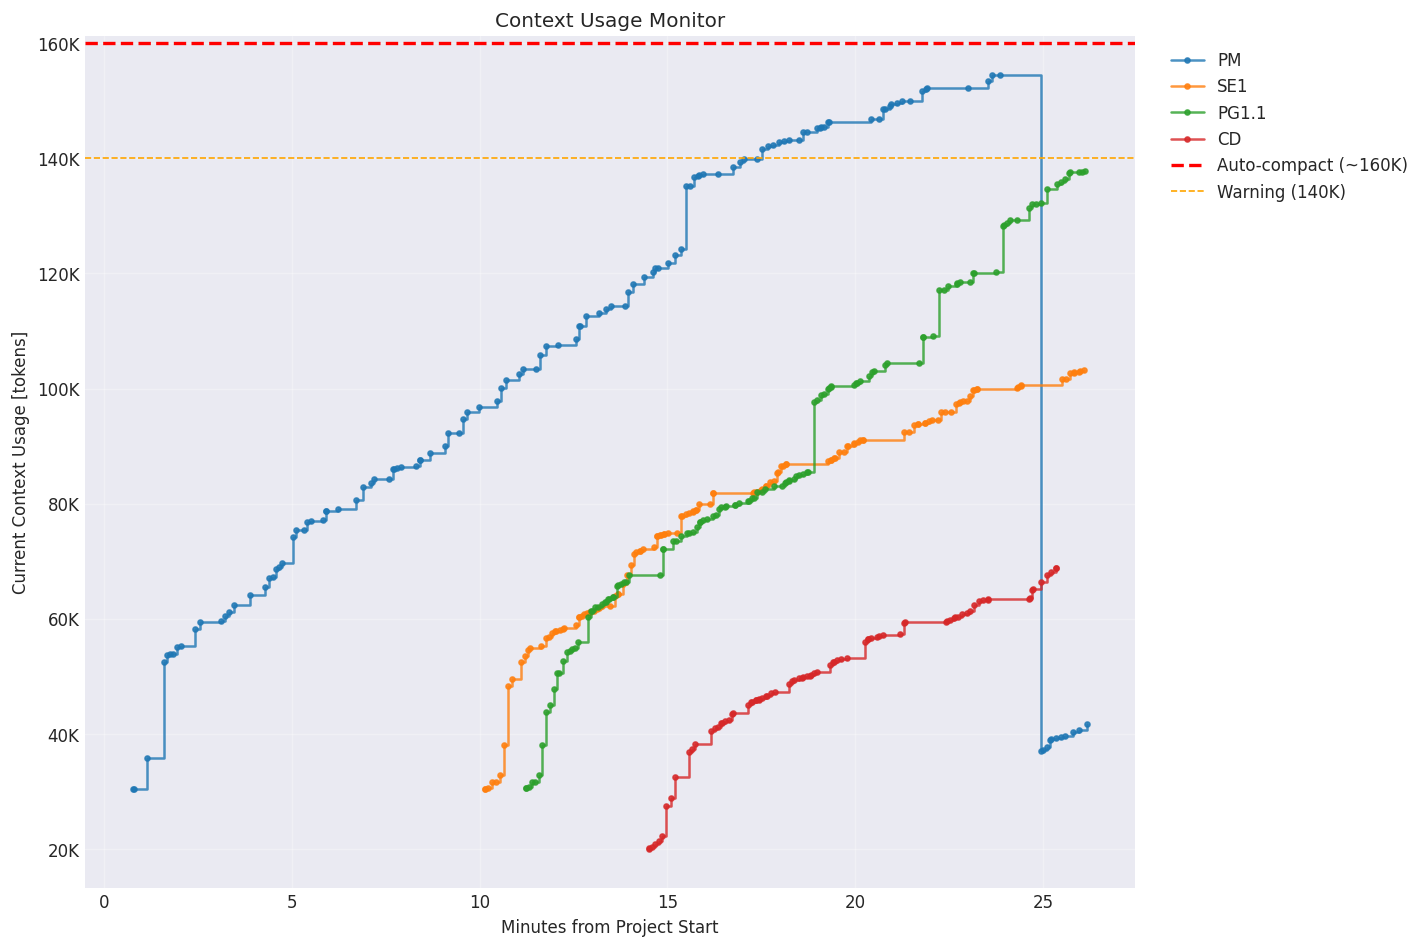
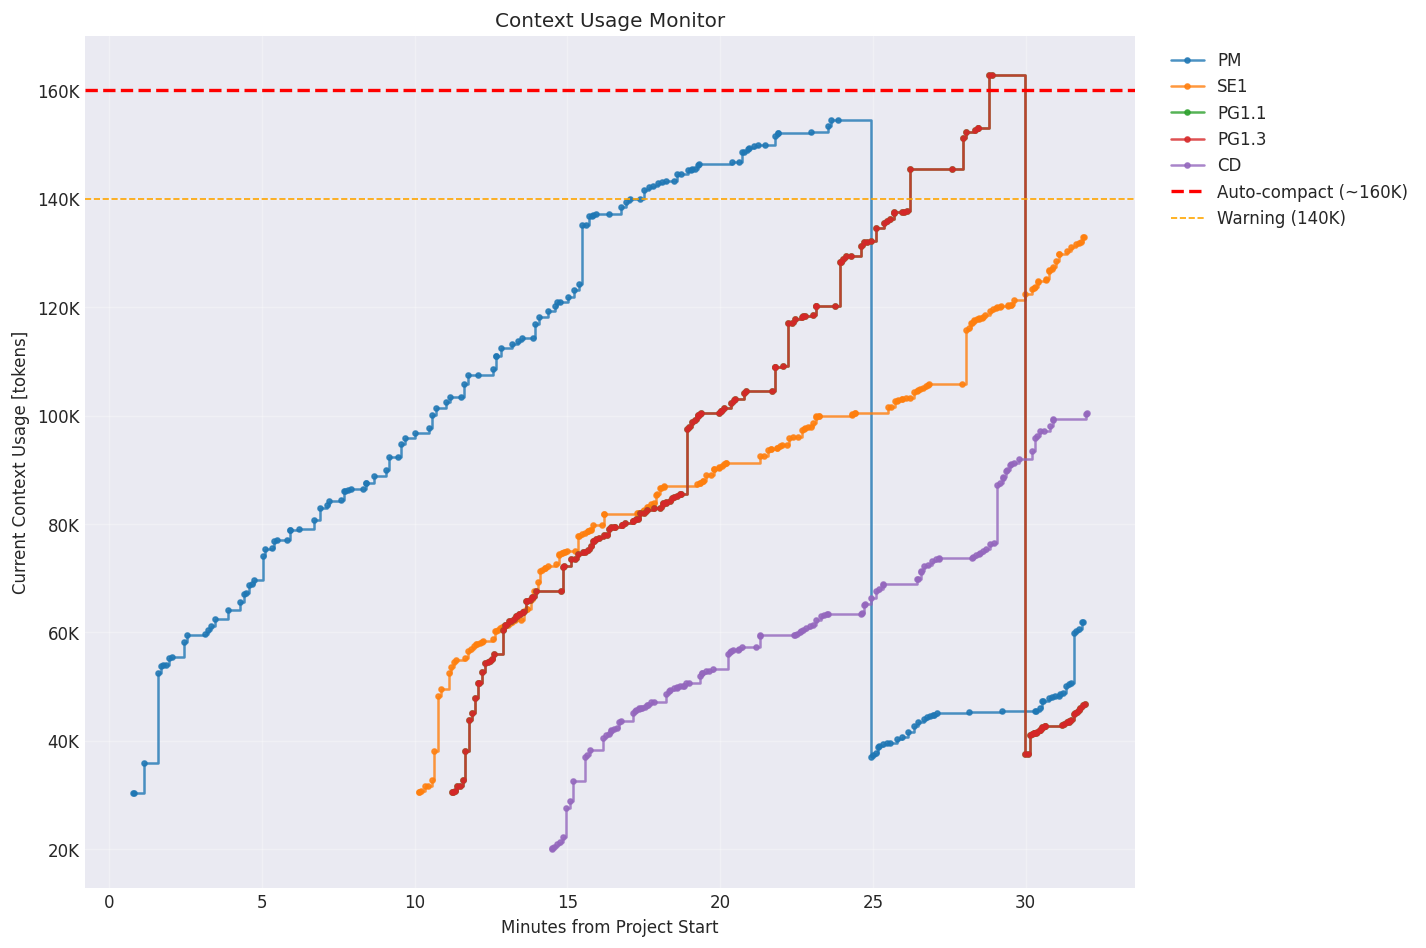
Add 30-minute milestone reports and visualizations
- Added performance analysis report (current: 24.21%, budget: 7.4pt)
- Updated context usage report with agent details
- Added 30-minute milestone graphs
- PG1.2 starting memory optimization implementation

🤖 Generated with [Claude Code](https://claude.ai/code)

diff --git a/User-shared/reports/performance_analysis_01.md b/User-shared/reports/performance_analysis_01.md
@@ -1,0 +1,64 @@
+# GEMM CUDA最適化 性能分析レポート
+**作成日時**: 2025-09-15 16:28
+**作成者**: SE1
+
+## 現在の達成状況
+
+### 性能推移
+| Version | 性能 (GFLOPS) | 理論性能比 | 向上率 | 実行時間 |
+|---------|---------------|------------|--------|----------|
+| v1.0.0  | 1803.784     | 23.10%     | -      | 68秒     |
+| v1.0.1  | 1888.538     | 24.21%     | +4.7%  | 64秒     |
+
+### 最適化手法と効果
+- **v1.0.0**: BLOCK_SIZE=16, 共有メモリタイリング基本実装
+- **v1.0.1**: BLOCK_SIZE=32, warp最適化, pragma unroll追加
+
+## 予算消費状況
+- **現在消費**: 7.4ポイント
+- **最低ライン**: 100ポイント（進捗率: 7.4%）
+- **ジョブ実行数**: 4回
+- **平均消費**: 1.85ポイント/ジョブ
+
+## 性能グラフ
+![SOTA性能推移](../visualizations/sota/project/sota_project_time.png)
+![予算消費](../visualizations/budget_usage.png)
+
+## 分析
+
+### 現状評価
+- 理論性能の24.21%を達成（V100 倍精度 7.8 TFLOPS基準）
+- cuBLAS目標（6.5-7.2 TFLOPS = 83-92%）に対して約30%の達成率
+- 精度要件は満たしている（相対誤差 9.87e-17 < 1e-9）
+
+### ボトルネック分析
+1. **メモリ帯域**: 現在の実装では演算強度が不十分
+2. **レジスタ活用**: より積極的なレジスタタイリングが必要
+3. **命令レベル並列性**: ループアンローリングの強化余地あり
+
+## 今後の最適化方針
+
+### 短期目標（〜30% 達成）
+- より大きなブロックサイズ（64, 128）の試行
+- レジスタタイリングの実装
+- ループアンローリングファクターの調整
+
+### 中期目標（〜50% 達成）
+- メモリアクセスパターンの最適化（PG1.2担当）
+- カーネル最適化とILP向上（PG1.3担当）
+- プリフェッチ戦略の実装
+
+### 長期目標（〜80% 達成）
+- Tensor Core活用（混合精度演算）
+- マルチGPU対応（4GPU並列）
+- 非同期実行とストリーム並列
+
+## リスクと対策
+- **予算制約**: 残り92.6ポイントで目標達成が必要
+- **時間制約**: 残り約140分（目安150分に対して）
+- **対策**: 効果の高い最適化を優先的に実施
+
+## 次のアクション
+1. v1.2.0の結果確認と分析
+2. PG1.2, PG1.3の進捗確認と連携強化
+3. 30分後のマイルストーン評価準備

diff --git a/User-shared/visualizations/context_usage_report.md b/User-shared/visualizations/context_usage_report.md
@@ -1,15 +1,16 @@
 # コンテキスト使用状況レポート
 
-生成日時: 2025-09-15 16:25:30
+生成日時: 2025-09-15 16:31:21
 
 ## サマリー
 
 | エージェント | 合計 [トークン] | 使用率 | Cache Read | Cache Create | Input | Output | 推定時間 |
 |-------------|----------------|--------|------------|--------------|-------|--------|----------|
-| 🟢 PG1.1 | 137,808 | 86.1% | 137,568 | 238 | 1 | 1 | 0.1h |
-| 🟢 SE1 | 103,168 | 64.5% | 102,961 | 206 | 0 | 1 | 0.6h |
-| 🟢 CD | 68,881 | 43.1% | 67,980 | 801 | 0 | 100 | 0.5h |
-| 🟢 PM | 41,683 | 26.1% | 40,722 | 544 | 5 | 412 | 0.5h |
+| 🟢 SE1 | 133,012 | 83.1% | 131,780 | 1,126 | 0 | 106 | 0.1h |
+| 🟢 CD | 100,498 | 62.8% | 99,200 | 1,171 | 0 | 127 | 0.3h |
+| 🟢 PM | 61,867 | 38.7% | 60,541 | 1,322 | 3 | 1 | 0.1h |
+| 🟢 PG1.1 | 46,741 | 29.2% | 46,473 | 225 | 3 | 40 | 0.3h |
+| 🟢 PG1.3 | 46,741 | 29.2% | 46,473 | 225 | 3 | 40 | 0.3h |
 
 ## Visualizations
 
@@ -22,6 +23,7 @@
 ### Individual Agent Details
 - CD: [Detail](context_usage_CD_detail.png) | [Count](context_usage_CD_count.png)
 - PG1.1: [Detail](context_usage_PG1.1_detail.png) | [Count](context_usage_PG1.1_count.png)
+- PG1.3: [Detail](context_usage_PG1.3_detail.png) | [Count](context_usage_PG1.3_count.png)
 - PM: [Detail](context_usage_PM_detail.png) | [Count](context_usage_PM_count.png)
 - SE1: [Detail](context_usage_SE1_detail.png) | [Count](context_usage_SE1_count.png)
 
@@ -42,4 +44,4 @@ python telemetry/context_usage_monitor.py --graph-type overview
 
 - Cache directory: `.cache/context_monitor/`
 - Total cache size: 0.0 MB
-- Cache files: 4
+- Cache files: 5
